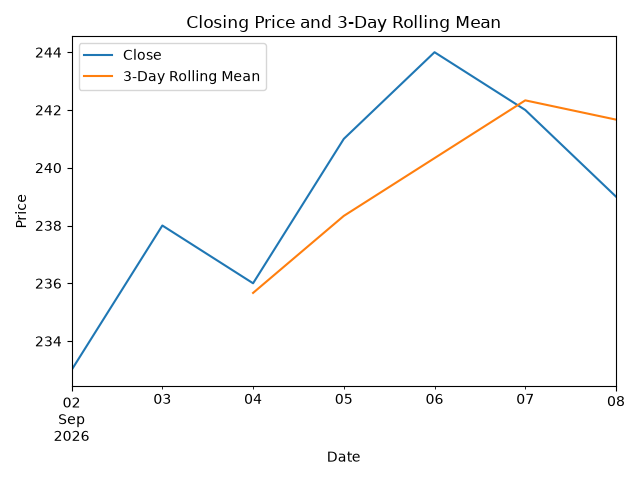
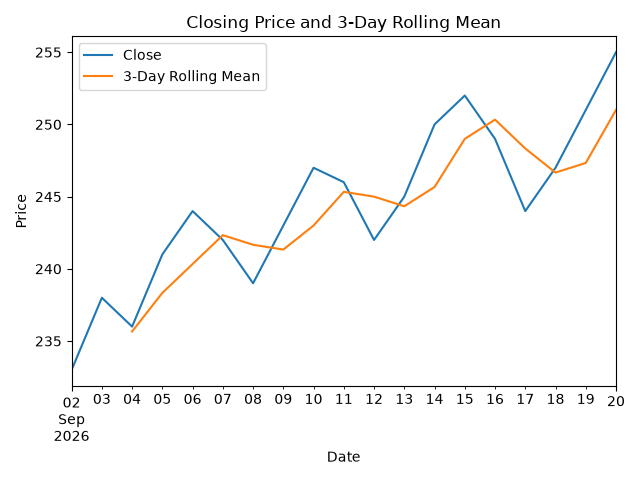
Add moving average backtest

diff --git a/main.py b/main.py
@@ -34,8 +34,33 @@ df["Rolling_Mean_3"] = df["Close"].rolling(window=3).mean()
 
 df["Rolling_Vol_3"] = df["Daily_Return"].rolling(window=3).std()
 
-# 5. Create visualizations
+# 5. Create trading signal
 
+df["Signal"] = (df["Close"] > df["Rolling_Mean_3"]).astype(int)
+print(df[["Close", "Rolling_Mean_3", "Signal"]])
+
+df["Position"] = df["Signal"].shift(1)
+print(df[["Signal", "Position"]])
+
+df["Position"] = df["Position"].fillna(0)
+df["Strategy_Return"] = df["Position"] * df["Daily_Return"]
+
+print(df[["Daily_Return", "Signal", "Position", "Strategy_Return"]])
+
+df["Strategy_Cumulative_Return"] = (
+    1 + df["Strategy_Return"]
+).cumprod() - 1
+print(df[[
+    "Cumulative_Return",
+    "Strategy_Cumulative_Return"
+]])
+
+strategy_total_return = df["Strategy_Cumulative_Return"].iloc[-1]
+total_return = df["Cumulative_Return"].iloc[-1]
+print("Buy & Hold Return:", total_return)
+print("Strategy Return:", strategy_total_return)
+
+# 6. Create visualizations
 df["Close"].plot(title="Closing Price")
 
 plt.xlabel("Date")
@@ -61,7 +86,8 @@ total_return = df["Cumulative_Return"].iloc[-1]
 
 
 summary = {
-    "Total Return": total_return,
+    "Buy & Hold Return": total_return,
+    "Strategy Return": strategy_total_return,
     "Annualized Volatility": annualized_volatility,
     "Max Drawdown": max_drawdown,
 }
